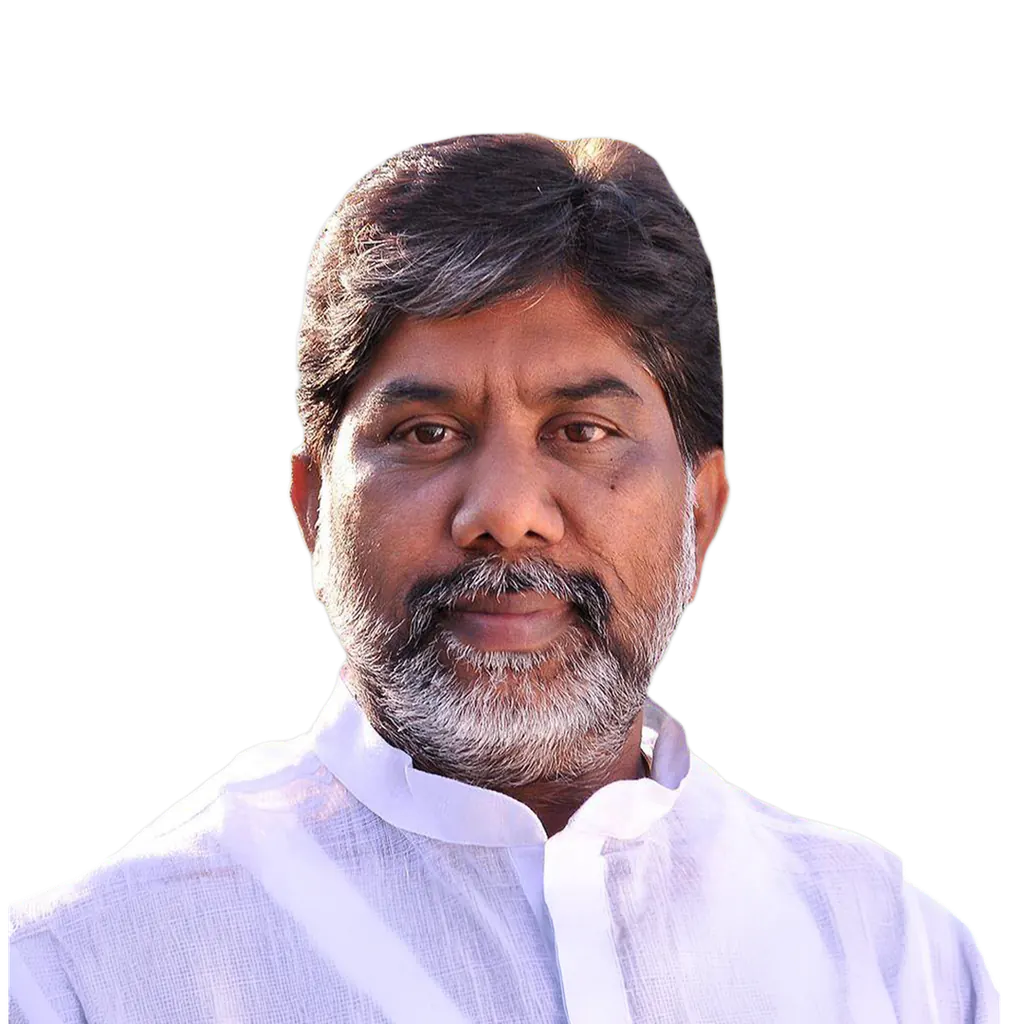
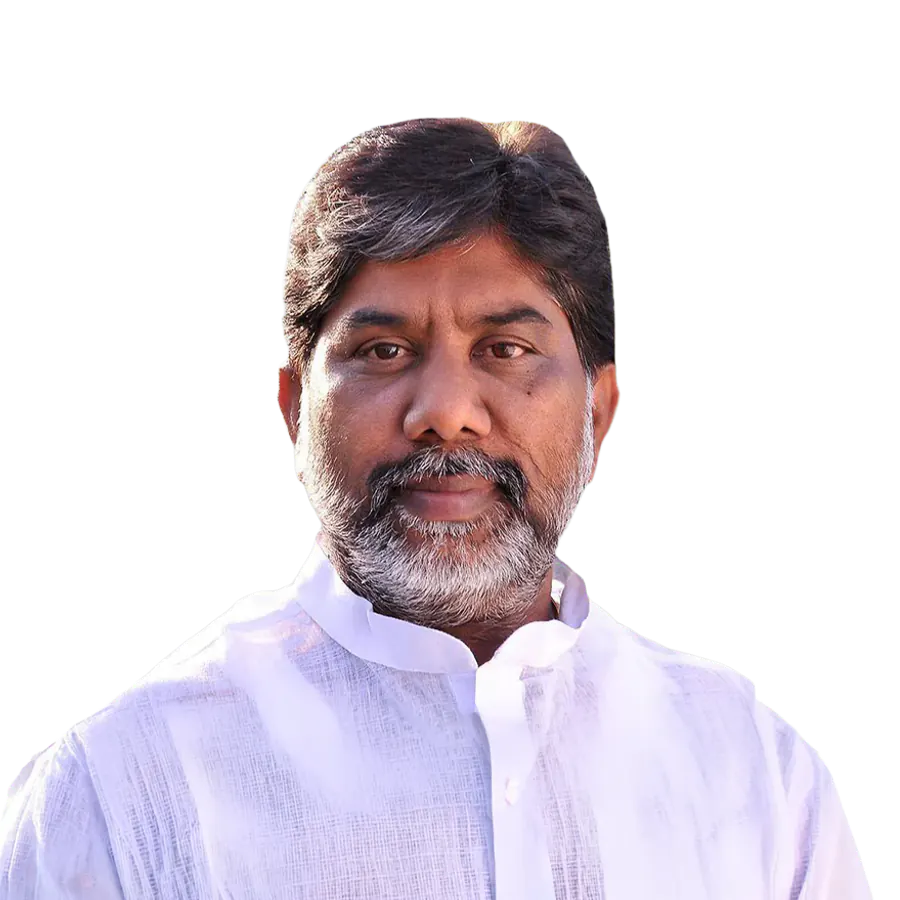
rg pic replacement

diff --git a/src/data/speakersData.js b/src/data/speakersData.js
@@ -440,6 +440,10 @@ const slug = (name) => name.normalize('NFKD').replace(/[\u0300-\u036f]/g, '').to
 const initials = (name) => name.replace(/^((Dr|Prof|Justice)\.?\s+|M\.V\.\s*)+/, '').split(/\s+/).filter((w) => /^\p{Lu}/u.test(w)).slice(0, 2).map((w) => w[0]).join('')
   || name.slice(0, 2).toUpperCase()
 
+// Protocol order: these lead any session they are in (RG > CM > DCM > Salman Khurshid > Sridhar Babu > Pushparaj); the rest keep their order
+const LEADS = ['Rahul Gandhi', 'A. Revanth Reddy', 'Mallu Bhatti Vikramarka', 'Salman Khurshid', 'D. Sridhar Babu', 'Pushparaj Deshpande']
+const rank = (name) => (LEADS.includes(name) ? LEADS.indexOf(name) : LEADS.length)
+
 let n = 0
 // [{ part, sessions: [{ title, when, about, speakers: [speaker] }] }]
 export const PARTS = RAW.map(({ part, sessions }) => ({
@@ -451,7 +455,7 @@ export const PARTS = RAW.map(({ part, sessions }) => ({
       return { id: n, name, role, country: COUNTRY[name] || '', bio, moderator: !!moderator, session: s.title, when: s.when, initials: initials(name),
         img: NO_PHOTO.has(name) ? null : a(`speakers/${slug(name)}.webp`),
         bg: SPEAKER_BG }
-    }),
+    }).sort((x, y) => rank(x.name) - rank(y.name)), // after numbering, so /speakers/:id links stay the same
   })),
 }))
 
@@ -460,3 +464,4 @@ export const SPEAKERS = PARTS.flatMap((p) => p.sessions.flatMap((s) => s.speaker
 // Each person once, at their first session: for "All sessions" and the Home and About rows. Someone in several
 // sessions (D. Sridhar Babu, for one) keeps a card in each session's own list.
 export const ALL_SPEAKERS = SPEAKERS.filter((s, i) => SPEAKERS.findIndex((t) => t.name === s.name) === i)
+  .sort((x, y) => rank(x.name) - rank(y.name))
